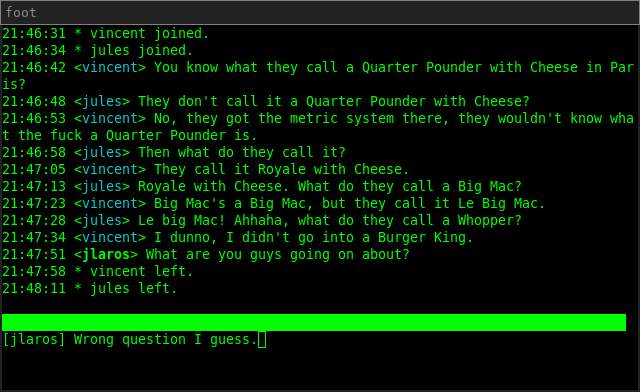
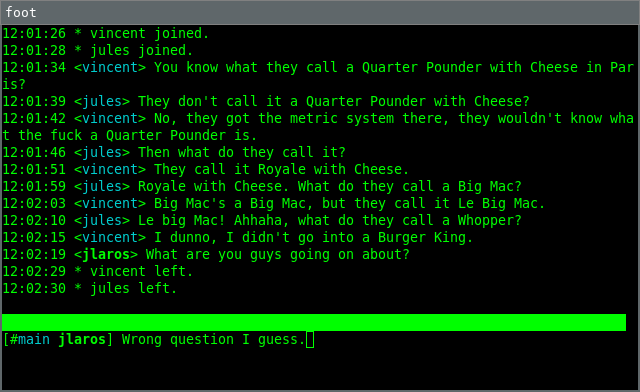
Added multi channel support.

diff --git a/README.md b/README.md
@@ -8,6 +8,7 @@ administration tasks.
 Features:
 
 - Multi user chatting.
+- Multi channel support.
 - Join and leave notifications.
 - Own messages highlighting.
 - History retention, visible when a user joins the conversation.
@@ -16,7 +17,7 @@ Features:
 
 ## Installation
 
-Install dependencies and clone the source code.
+Install dependencies and clone the source code:
 
     apt install splitvt
     git clone https://github.com/jfjlaros/localchat.git
@@ -24,10 +25,14 @@ Install dependencies and clone the source code.
 
 ## Usage
 
-Start the application with the following commands.
+Start the application with the following commands:
 
     cd localchat
     ./localchat
+
+Or, if you want to join an other channel, e.g., "mychannel":
+
+    ./localchat mychannel
 
 The interface contains two windows. In the top window, we see the
 conversation, in the bottom window, we can write a message to add to the
@@ -37,6 +42,6 @@ conversation.
 
 The application can be closed by pressing Ctrl+C.
 
-A backup of the conversation can be made by copying the log file.
+A backup of a conversation can be made by copying its log file, e.g.:
 
-    cp /tmp/.localchat/log ~/localchat.1.log
+    cp /tmp/.localchat/main ~/localchat.main.log
